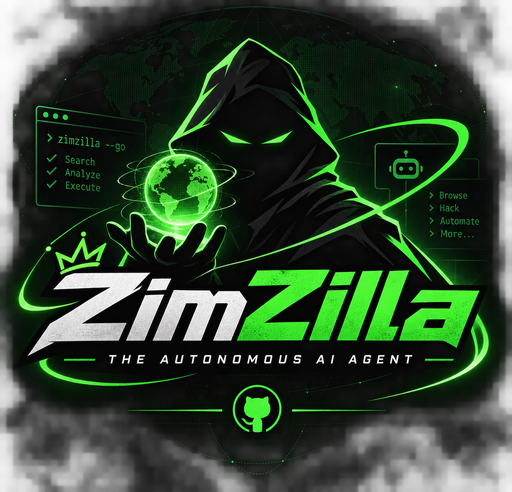
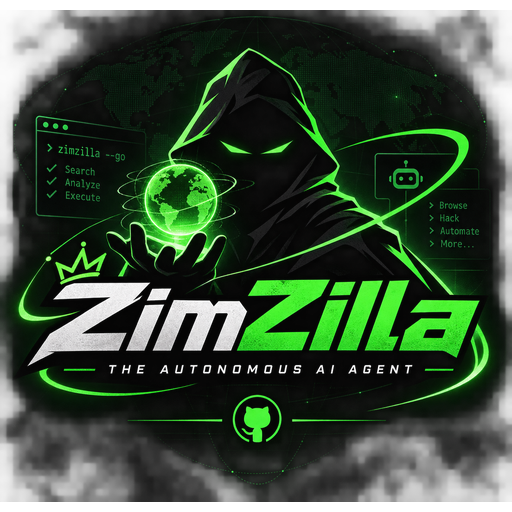
fix(discord): match the Rich Presence asset name and show useful text
The logo belongs to Rich Presence → Art Assets, not the app cover/icon, and
the asset *name* is the key. A key other than `zimzilla` looked like a broken
image, while duplicating the app name in `details` made the card look empty.

- Add /discord-rpc asset <key> to use the name actually uploaded; stored in
  ~/.zimzilla/discord/asset (mode 600).
- Pad the prepared logo to exactly 512×512 (the old 512×492 could be rejected
  by clients); docs/zimzilla-rpc.png regenerated square.
- Payload now shows `Recon with a voice` as the description and
  `Idle · <model>` / `Working · <model>` as the state, with activity type
  explicitly PLAYING.
- Status prints the active asset key and logo path; setup text explains that
  cover/app icon is not an RPC asset and that the name is the key.
- README and tests.

Tests: test_discord_rpc 39/39, test_help 23/23, test_phase4 436/438 (same two
terminal-background assertions).

diff --git a/zimzilla/discord_rpc.py b/zimzilla/discord_rpc.py
@@ -28,6 +28,8 @@ DOWNLOADS_LOGO = Path.home() / "Downloads" / "zimzilla.png"
 
 CLIENT_ID_RE = re.compile(r"^\d{17,20}$")
 ASSET_KEY = "zimzilla"
+ASSET_FILE = ZIMZILLA_HOME / "discord" / "asset"
+ASSET_KEY_RE = re.compile(r"^[A-Za-z0-9_.-]{1,64}$")
 MAX_IMAGE_BYTES = 512 * 1024   # Discord's Rich Presence asset ceiling
 
 
@@ -86,6 +88,37 @@ def save_client_id(client_id: str) -> Path:
     return PROFILE
 
 
+def load_asset_key() -> str:
+    """The Rich Presence asset key. Must match the portal exactly."""
+    env = os.environ.get("DISCORD_ASSET_KEY", "").strip()
+    if ASSET_KEY_RE.fullmatch(env):
+        return env
+    try:
+        text = ASSET_FILE.read_text(encoding="utf-8").strip()
+    except OSError:
+        return ASSET_KEY
+    return text if ASSET_KEY_RE.fullmatch(text) else ASSET_KEY
+
+
+def save_asset_key(key: str) -> Path:
+    key = (key or "").strip()
+    if not ASSET_KEY_RE.fullmatch(key):
+        raise ValueError("asset keys are 1-64 letters, digits, . _ or -")
+    ASSET_FILE.parent.mkdir(parents=True, exist_ok=True)
+    try:
+        os.chmod(ASSET_FILE.parent, 0o700)
+    except OSError:
+        pass
+    fd = os.open(ASSET_FILE, os.O_WRONLY | os.O_CREAT | os.O_TRUNC, 0o600)
+    with os.fdopen(fd, "w", encoding="utf-8") as fh:
+        fh.write(key + "\n")
+    try:
+        os.chmod(ASSET_FILE, 0o600)
+    except OSError:
+        pass
+    return ASSET_FILE
+
+
 def prepare_logo(source: str | Path | None = None) -> Path:
     """Resize the supplied logo to Discord's 512px/512KB asset limits."""
     from PIL import Image
@@ -96,11 +129,16 @@ def prepare_logo(source: str | Path | None = None) -> Path:
         raise FileNotFoundError(f"no logo found at {DOWNLOADS_LOGO}")
     image = Image.open(src).convert("RGBA")
     image.thumbnail((512, 512), Image.Resampling.LANCZOS)
+    # Discord's Rich Presence artwork is square. Pad rather than hand it a
+    # 512x492 image, which some clients treat as too small.
+    canvas = Image.new("RGBA", (512, 512), (0, 0, 0, 0))
+    canvas.alpha_composite(image, ((512 - image.width) // 2,
+                                   (512 - image.height) // 2))
     LOGO.parent.mkdir(parents=True, exist_ok=True)
-    image.save(LOGO, optimize=True)
+    canvas.save(LOGO, optimize=True)
     # If optimize still leaves it over the ceiling, quantise to a palette.
     if LOGO.stat().st_size > MAX_IMAGE_BYTES:
-        image.convert("P", palette=Image.Palette.ADAPTIVE).save(LOGO, optimize=True)
+        canvas.convert("P", palette=Image.Palette.ADAPTIVE).save(LOGO, optimize=True)
     try:
         os.chmod(LOGO, 0o644)
     except OSError:
@@ -118,15 +156,24 @@ def ipc_socket() -> Path | None:
     return None
 
 
-def payload(state: str, model: str, *, started: int | None = None) -> dict:
-    """The activity object sent to Discord. Kept pure for tests."""
-    detail = (model or "ZimZilla").strip()[:128]
+def payload(state: str, model: str, *, started: int | None = None,
+            asset_key: str = ASSET_KEY) -> dict:
+    """The activity object sent to Discord. Kept pure for tests.
+
+    The app name is the *title* of the card. ``details`` is the description line
+    under it; ``state`` carries the live activity and model. Using the app name
+    again in ``details`` is why a bare payload can look empty.
+    """
+    activity = (state or "Idle").strip()
+    model = (model or "").strip()
+    if model:
+        activity = f"{activity} · {model}"
     return {
-        "details": "ZimZilla"[:128],
-        "state": (state or "Idle").strip()[:128],
+        "details": "Recon with a voice"[:128],
+        "state": activity[:128],
         "start": started or int(time.time()),
-        "large_image": ASSET_KEY,
-        "large_text": "ZimZilla",
+        "large_image": (asset_key or ASSET_KEY)[:64],
+        "large_text": "ZimZilla — terminal-native AI operator"[:128],
         "instance": False,
     }
 
@@ -139,7 +186,9 @@ class DiscordRPC:
         self.client_id = client_id if valid_client_id(client_id) else ""
         self.enabled = bool(enabled)
         self.started = started or int(time.time())
-        self._activity = payload("Idle", "", started=self.started)
+        self.asset_key = load_asset_key()
+        self._activity = payload("Idle", "", started=self.started,
+                                 asset_key=self.asset_key)
         self._lock = threading.Lock()
         self._wake = threading.Event()
         self._stop = threading.Event()
@@ -153,7 +202,8 @@ class DiscordRPC:
 
     def set_activity(self, state: str, model: str = "") -> None:
         with self._lock:
-            self._activity = payload(state, model, started=self.started)
+            self._activity = payload(state, model, started=self.started,
+                                     asset_key=self.asset_key)
         self._wake.set()
 
     def start(self) -> bool:
@@ -202,7 +252,8 @@ class DiscordRPC:
                     with self._lock:
                         activity = dict(self._activity)
                     try:
-                        rpc.update(**activity)
+                        from pypresence import ActivityType
+                        rpc.update(activity_type=ActivityType.PLAYING, **activity)
                     except Exception as e:  # noqa: BLE001 - reconnect below
                         self.last_error = f"update failed: {e}"
                         break

diff --git a/zimzilla/ui/app.py b/zimzilla/ui/app.py
@@ -880,7 +880,7 @@ HELP_GROUPS: list[tuple[str, str, str, list[tuple[str, str]]]] = [
         ("/mode [name]", "switch mode: auto | edits | plan | zim | danger | uncensored | blackhat"),
         ("/clear", "wipe the transcript and conversation history"),
         ("/voice [on|off]", "spoken launch greeting and end-of-turn recap"),
-        ("/discord-rpc [id|on|off|logo]", "show ZimZilla on your Discord profile"),
+        ("/discord-rpc [id|on|off|asset|logo]", "show ZimZilla on your Discord profile"),
         ("/scope", "show allow.yaml / out-of-scope.yaml status"),
         ("/exit", "leave the harness (Ctrl+D also works)"),
     ]),
@@ -2547,8 +2547,11 @@ class ZimZillaApp(App):
             t.append("  last: ", style=f"bold {p.accent}")
             t.append(d.last_error[:180] + "\n", style=p.amber)
         if verbose:
+            t.append("  asset: ", style=f"bold {p.accent}")
+            t.append(f"`{d.asset_key}`  (must match Rich Presence → Art Assets)\n",
+                     style=p.primary)
             t.append("  logo: ", style=f"bold {p.accent}")
-            t.append(str(discord_mod.LOGO) + "  (asset key `zimzilla`)\n",
+            t.append(str(discord_mod.LOGO) + "  (512x512 PNG)\n",
                      style=p.dim)
         self.query_one(ChatPane).write_block(t)
 
@@ -2562,9 +2565,12 @@ class ZimZillaApp(App):
             "  2. Copy its Application ID (17-20 digits)",
             "  3. Run  /discord-rpc <application-id>",
             "  4. Rich Presence → Art Assets → upload "
-            "docs/zimzilla-rpc.png as key `zimzilla`",
+            "docs/zimzilla-rpc.png with the asset name `zimzilla`",
             "  5. Keep Discord running; the presence appears on the account "
             "signed into it",
+            "",
+            "  The asset name is the key, not the filename. If you named it "
+            "something else, run /discord-rpc asset <that-name>.",
             "",
             "  This is Rich Presence via the local Discord client — it does not "
             "link or read your account. No token is stored, only the app id.",
@@ -2573,7 +2579,7 @@ class ZimZillaApp(App):
         self.query_one(ChatPane).write_block(t)
 
     def _cmd_discord_rpc(self, args) -> None:
-        """/discord-rpc [id|on|off|logo] — Rich Presence for this session."""
+        """/discord-rpc [id|on|off|asset|logo] — Rich Presence for this session."""
         arg = str(args[0]).strip() if args else ""
         low = arg.lower()
         if low in ("on", "off"):
@@ -2591,6 +2597,21 @@ class ZimZillaApp(App):
                 self._sys_line("Discord presence off", ok=True)
             self._discord_status()
             return
+        if low == "asset":
+            if len(args) < 2:
+                self._sys_line(f"current asset key: {self._discord.asset_key}",
+                               ok=True)
+                return
+            key = str(args[1]).strip()
+            try:
+                path = discord_mod.save_asset_key(key)
+            except Exception as e:  # noqa: BLE001
+                self._sys_line(f"asset: {type(e).__name__}: {e}", warn=True)
+                return
+            self._discord.asset_key = key
+            self._discord.set_activity("Idle", self.cfg.display_model)
+            self._sys_line(f"asset key set to `{key}` ({path})", ok=True)
+            return
         if low == "logo":
             source = str(args[1]).strip() if len(args) > 1 else None
             try:
@@ -2599,7 +2620,8 @@ class ZimZillaApp(App):
                 self._sys_line(f"logo: {type(e).__name__}: {e}", warn=True)
                 return
             self._sys_line(f"logo prepared: {path} — upload it as asset "
-                           f"`zimzilla` in the Discord app", ok=True)
+                           f"`{self._discord.asset_key}` in the Discord app",
+                           ok=True)
             return
         if low in ("status", "show"):
             self._discord_status()
@@ -2621,7 +2643,8 @@ class ZimZillaApp(App):
             self._sys_line(f"Discord application id saved to {path}", ok=True)
             if logo is not None:
                 self._sys_line(f"logo prepared: {logo} — upload it as asset "
-                               f"`zimzilla` in the app's Rich Presence assets")
+                               f"`{self._discord.asset_key}` in the app's "
+                               f"Rich Presence assets")
             self._discord_status()
             return
         if arg and not discord_mod.valid_client_id(arg):

diff --git a/tests/test_discord_rpc.py b/tests/test_discord_rpc.py
@@ -53,10 +53,15 @@ def test_client_id() -> None:
 
 def test_payload() -> None:
     got = dr.payload("Thinking", "deepseek-v4.1-flash", started=1234)
-    check("payload: details name the app", got["details"] == "ZimZilla", str(got))
-    check("payload: state is the activity", got["state"] == "Thinking")
+    check("payload: details describe it", got["details"] == "Recon with a voice",
+          str(got))
+    check("payload: state is activity plus model",
+          got["state"] == "Thinking · deepseek-v4.1-flash", got["state"])
     check("payload: logo asset key", got["large_image"] == "zimzilla")
-    check("payload: logo hover text", got["large_text"] == "ZimZilla")
+    check("payload: logo hover text",
+          got["large_text"].startswith("ZimZilla"), got["large_text"])
+    check("payload: custom asset key", dr.payload(
+        "Idle", "", asset_key="logo")["large_image"] == "logo")
     check("payload: start timestamp", got["start"] == 1234)
     check("payload: it is not an instance", got["instance"] is False)
     long_state = dr.payload("x" * 400, "m" * 400)
@@ -71,11 +76,21 @@ def test_logo() -> None:
     check("logo: it writes the profile asset", path == dr.LOGO)
     check("logo: it is a PNG", path.is_file())
     image = Image.open(path)
-    check("logo: it is at most 512px", max(image.size) <= 512, str(image.size))
+    check("logo: it is exactly 512x512", image.size == (512, 512), str(image.size))
     check("logo: under Discord's 512KB ceiling",
           path.stat().st_size <= dr.MAX_IMAGE_BYTES,
           f"{path.stat().st_size} bytes")
     check("logo: the repo asset exists", dr.REPO_LOGO.is_file(), str(dr.REPO_LOGO))
+
+
+def test_asset_key() -> None:
+    path = dr.save_asset_key("logo")
+    check("asset: written where it says", path == dr.ASSET_FILE)
+    check("asset: mode 600", oct(path.stat().st_mode & 0o777) == "0o600",
+          oct(path.stat().st_mode & 0o777))
+    check("asset: it loads back", dr.load_asset_key() == "logo")
+    check("asset: junk is refused", not dr.ASSET_KEY_RE.fullmatch("has space"))
+    dr.save_asset_key("zimzilla")
 
 
 def test_sender() -> None:
@@ -95,7 +110,8 @@ def test_wiring() -> None:
     comp = (ROOT / "zimzilla" / "ui" / "complete.py").read_text(encoding="utf-8")
     main = (ROOT / "zimzilla" / "__main__.py").read_text(encoding="utf-8")
     check("wiring: the command is dispatched", '"discord-rpc": lambda a:' in app)
-    check("wiring: the command is in help", '"/discord-rpc [id|on|off|logo]"' in app)
+    check("wiring: the command is in help",
+          '"/discord-rpc [id|on|off|asset|logo]"' in app)
     check("wiring: the command is completed", '("/discord-rpc",' in comp)
     check("wiring: the setup wizard exists", "def _discord_setup_text" in app)
     check("wiring: the logo command exists", 'if low == "logo":' in app)
@@ -110,6 +126,7 @@ def main() -> int:
     test_client_id()
     test_payload()
     test_logo()
+    test_asset_key()
     test_sender()
     test_wiring()
     failed = [n for n, ok, _ in RESULTS if not ok]

diff --git a/README.md b/README.md
@@ -1957,7 +1957,7 @@ startup and then ignored. Rename it to `allow.yaml` or `out-of-scope.yaml`.
 | `/rain` | toggle the matrix rain |
 | `/think` | show the model's own reasoning — where the endpoint forwards it |
 | `/voice [on\|off]` | spoken launch greeting and end-of-turn recap |
-| `/discord-rpc [id\|on\|off\|logo]` | show ZimZilla on your Discord profile |
+| `/discord-rpc [id\|on\|off\|asset\|logo]` | show ZimZilla on your Discord profile |
 | `/effort [low\|medium\|high\|off]` | how hard the model thinks — `reasoning_effort`, or a thinking budget, per protocol |
 | `/panes` | re-open this session under tmux — `ctrl+b h`/`v` split |
 | `/zim-opencode [--model id] [--refresh] [-- args]` | open **opencode** in this terminal behind a fresh rotating IP — free models, no account, nothing global |
@@ -2302,20 +2302,34 @@ there is one setup step that cannot be automated from this repo:
 1. Create an application at https://discord.com/developers/applications
 2. Copy its Application ID (17-20 digits)
 3. /discord-rpc <application-id>
-4. Rich Presence → Art Assets → upload docs/zimzilla-rpc.png as key `zimzilla`
+4. Rich Presence → Art Assets → upload docs/zimzilla-rpc.png with the **asset
+   name** `zimzilla` (the name is the key; the filename is not)
 5. Keep Discord running; the presence appears
 ```
 
 The command stores the app id in `~/.zimzilla/discord/source` (mode 600), not a
-token. The logo source is `~/Downloads/zimzilla.png`; ZimZilla resizes it to
-512 px / under Discord's 512 KB asset ceiling and writes
+token. The logo source is `~/Downloads/zimzilla.png`; ZimZilla pads and resizes
+it to an exact **512×512** PNG under Discord's 512 KB asset ceiling and writes
 `~/.zimzilla/discord/zimzilla.png`. `/discord-rpc logo` re-prepares it from that
 path (or from `docs/zimzilla-rpc.png` when Downloads is absent).
+
+The app **cover image** and **app icon** are not Rich Presence assets. The card
+logo comes only from **Rich Presence → Art Assets**, and the asset's name must
+match `large_image` exactly. If you named it something other than `zimzilla`,
+tell ZimZilla:
+
+```
+/discord-rpc asset logo      # use the asset named "logo"
+```
+
+The card shows the app name as the title, `Recon with a voice` as the
+description, and `Idle · <model>` / `Working · <model>` as the live state.
 
 ```
 /discord-rpc             # status, or setup instructions when unconfigured
 /discord-rpc <id>        # save the app id and start the presence
 /discord-rpc on|off      # enable/disable this session
+/discord-rpc asset <key> # use the asset name you actually uploaded
 /discord-rpc logo        # resize/copy the logo, print the asset key
 ```
 
